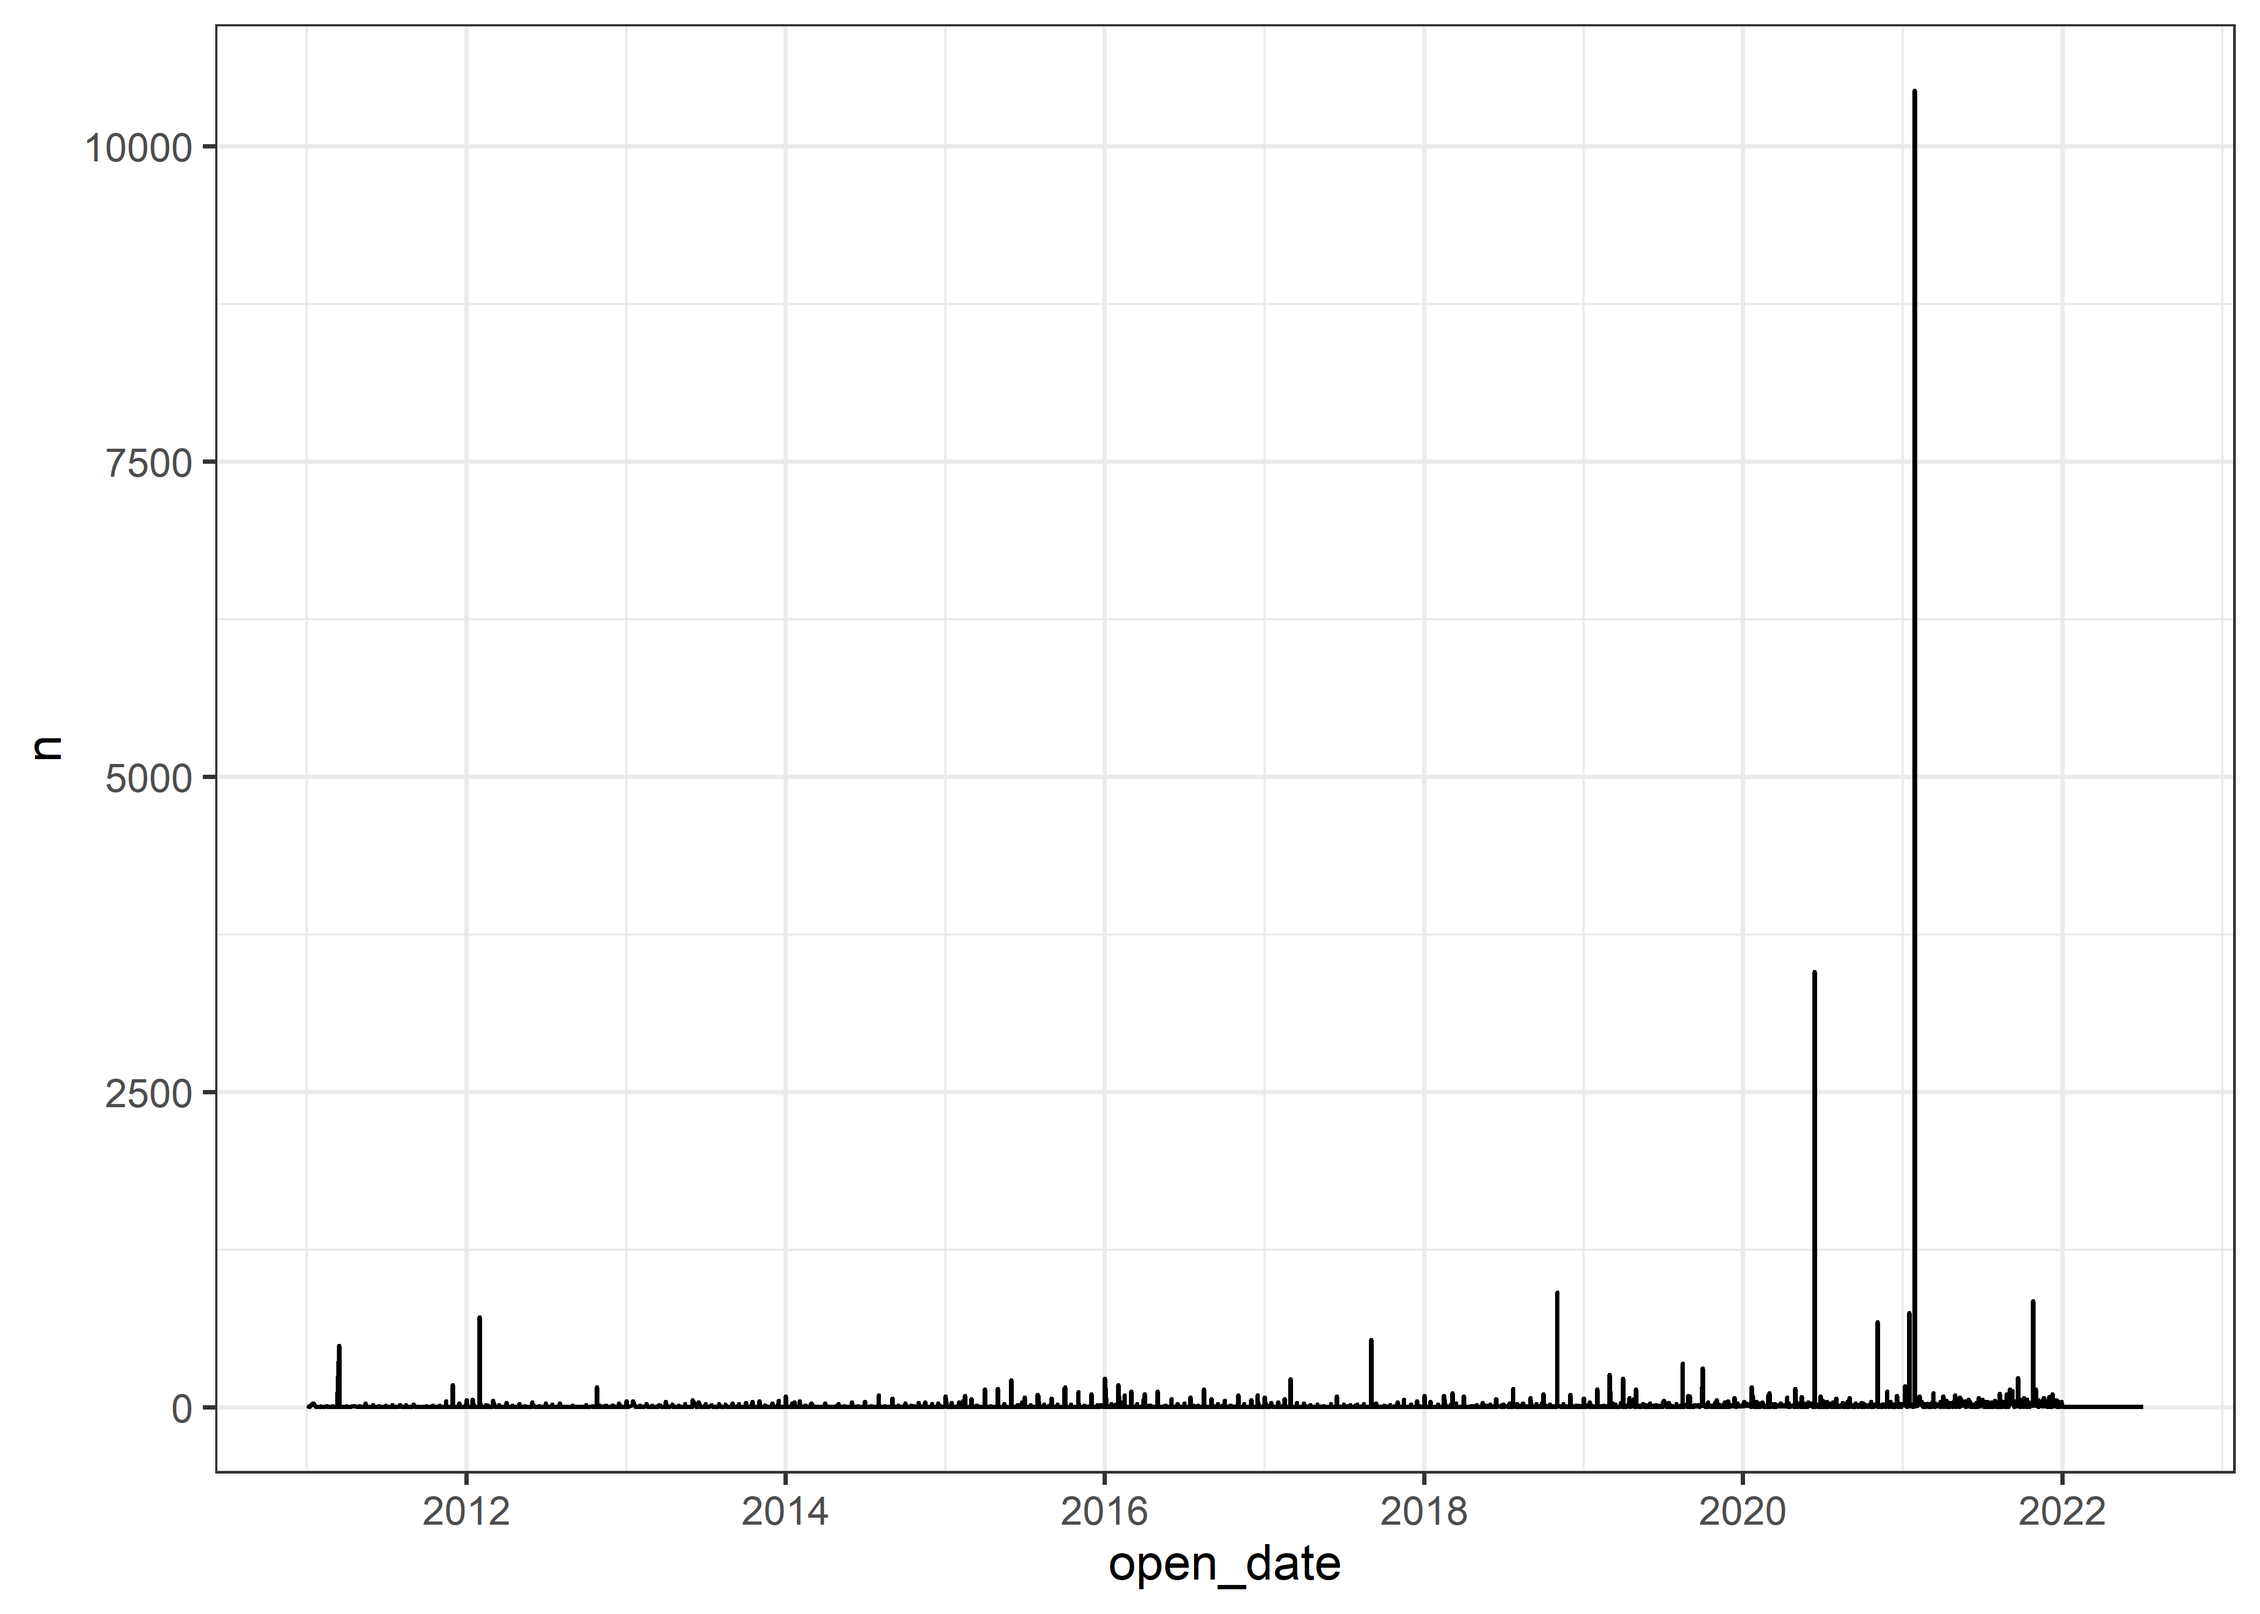
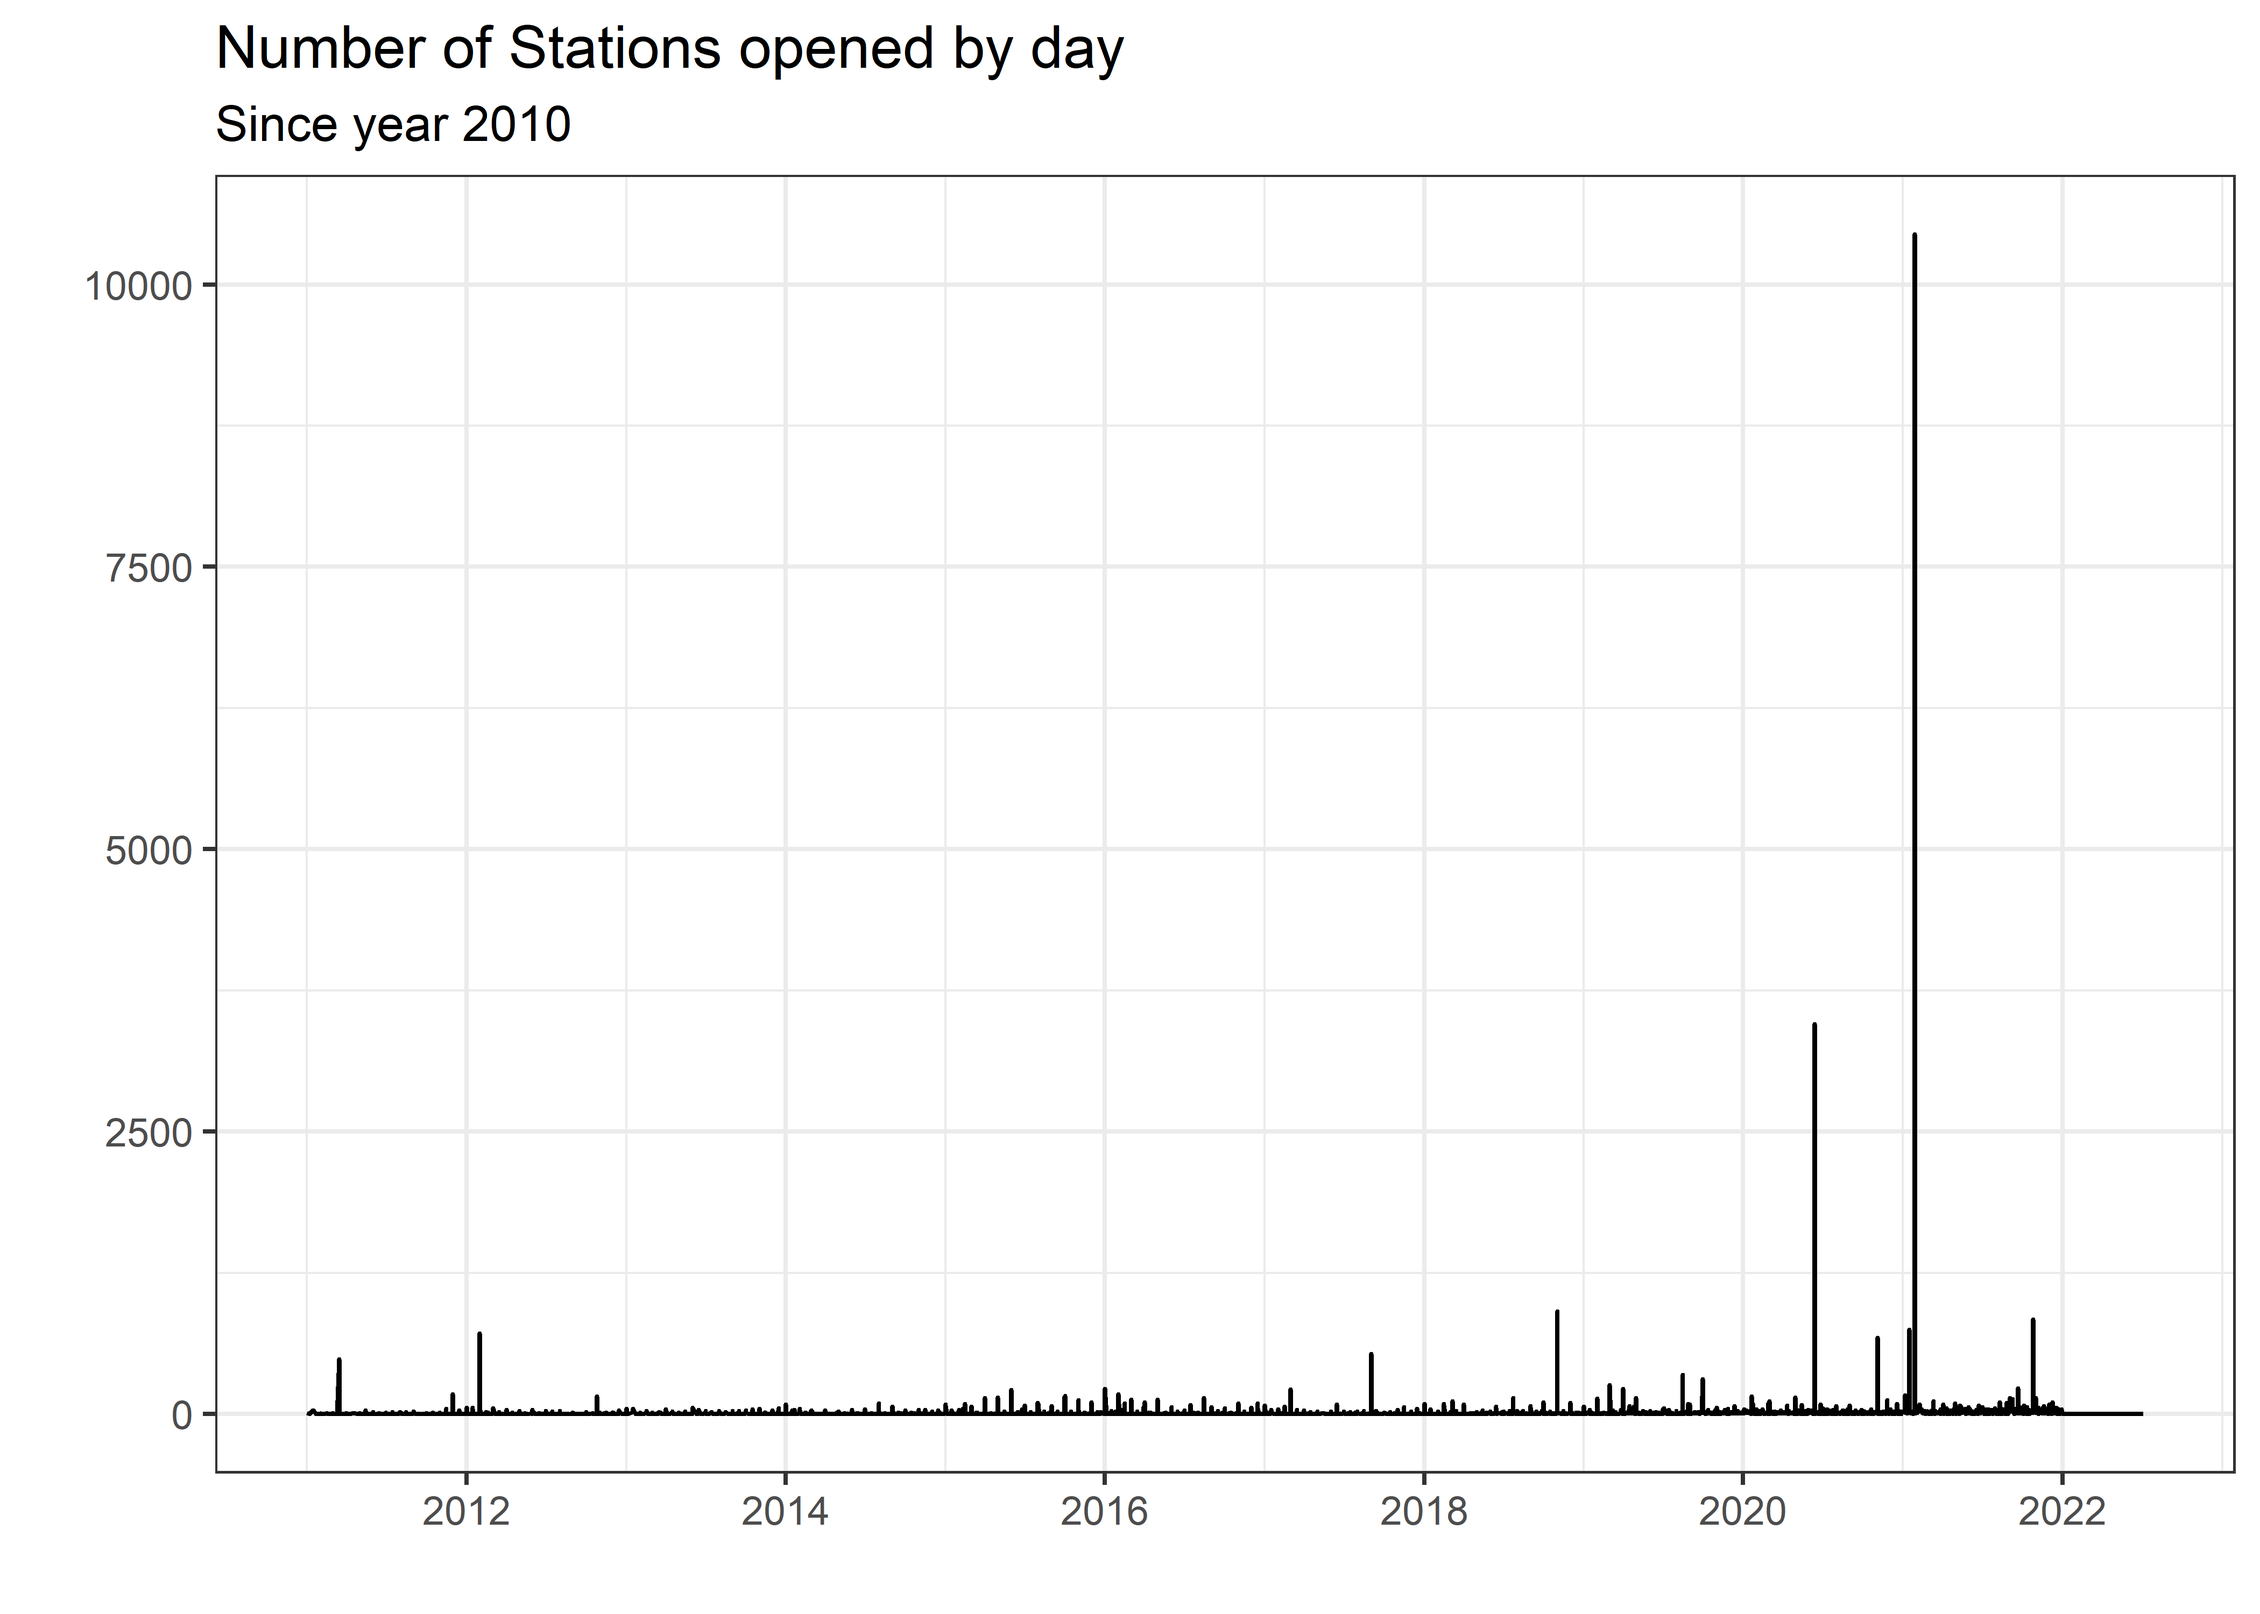
Patchwork Plot

diff --git a/Stations.md b/Stations.md
@@ -4,12 +4,46 @@ Matthew
 2/28/2022
 
 ``` r
+stations <- read_csv('https://raw.githubusercontent.com/rfordatascience/tidytuesday/master/data/2022/2022-03-01/stations.csv')
+```
+
+    ## 
+    ## -- Column specification --------------------------------------------------------
+    ## cols(
+    ##   .default = col_character(),
+    ##   X = col_double(),
+    ##   Y = col_double(),
+    ##   OBJECTID = col_double(),
+    ##   PLUS4 = col_logical(),
+    ##   BD_BLENDS = col_logical(),
+    ##   EV_LEVEL1_EVSE_NUM = col_double(),
+    ##   EV_LEVEL2_EVSE_NUM = col_double(),
+    ##   EV_DC_FAST_COUNT = col_double(),
+    ##   LATITUDE = col_double(),
+    ##   LONGITUDE = col_double(),
+    ##   ID = col_double(),
+    ##   FEDERAL_AGENCY_ID = col_double(),
+    ##   HYDROGEN_STATUS_LINK = col_logical(),
+    ##   LPG_PRIMARY = col_logical(),
+    ##   E85_BLENDER_PUMP = col_logical(),
+    ##   INTERSECTION_DIRECTIONS_FRENCH = col_logical(),
+    ##   ACCESS_DAYS_TIME_FRENCH = col_logical(),
+    ##   BD_BLENDS_FRENCH = col_logical(),
+    ##   HYDROGEN_IS_RETAIL = col_logical(),
+    ##   CNG_DISPENSER_NUM = col_double()
+    ##   # ... with 8 more columns
+    ## )
+    ## i Use `spec()` for the full column specifications.
+
+``` r
 stations <- stations %>%
   select(where(~any(!is.na(.x)))) %>%
   rename_with(tolower) %>%
   select(-objectid) %>%
   mutate(open_date = as.Date(open_date))
 ```
+
+# EDA
 
 ``` r
 stations %>%
@@ -35,13 +69,15 @@ stations %>%
 
 ![](Stations_files/figure-gfm/unnamed-chunk-2-2.png)<!-- -->
 
-### Observing date 2021-01-07
+## Observing date 2021-01-07
 
 ``` r
-stations %>%
-  count(open_date, sort = TRUE) %>%
+(p1 <- stations %>%
   filter(year(open_date) > 2010) %>%
-  ggplot(aes(open_date, n)) + geom_line()
+  count(open_date, sort = TRUE) %>%
+  ggplot(aes(open_date, n)) + geom_line() + 
+  labs(title = "Number of Stations opened by day", x = "", y = "",
+       subtitle = "Since year 2010"))
 ```
 
 ![](Stations_files/figure-gfm/unnamed-chunk-3-1.png)<!-- -->
@@ -49,22 +85,38 @@ stations %>%
 ``` r
 stations %>%
   filter(open_date == "2021-01-27") %>%
+  count(fuel_type_code)
+```
+
+    ## # A tibble: 1 x 2
+    ##   fuel_type_code     n
+    ##   <chr>          <int>
+    ## 1 ELEC           10446
+
+``` r
+x <- stations %>%
+  filter(open_date == "2021-01-27") %>%
   count(state, sort = TRUE) %>%
-  ggplot(aes(n, y = fct_reorder(state, n))) +
-  geom_col() + labs(y = "State", x = "Count", fill = "Fuel")
+  head(20) %>%
+  select(state)
+
+(p2 <- stations %>%
+  filter(!is.na(open_date)) %>%
+  select(open_date, state) %>%
+  mutate(key = ifelse(open_date == "2021-01-27", "Yes", "No")) %>%
+  group_by(key) %>%
+  count(state) %>%
+  filter(state %in% x$state) %>%
+  ggplot(aes(n, fct_reorder(state, n), fill = fct_rev(as.factor(key)))) + geom_col() +
+  labs(fill = "2021-01-27", y = "", x = "Count", title = "Stations Opened", subtitle = "Top 20 States") + 
+  scale_fill_manual(values = c("yellow","blue")))
 ```
 
 ![](Stations_files/figure-gfm/unnamed-chunk-3-2.png)<!-- -->
 
 ``` r
-stations %>%
-  filter(!is.na(open_date)) %>%
-  select(open_date, state) %>%
-  mutate(key = ifelse(open_date == "2021-01-27", "Yes", "No")) %>%
-  group_by(state,key) %>%
-  count(state) %>%
-  ggplot(aes(n, fct_reorder(state, n), fill = fct_rev(as.factor(key)))) + geom_col() +
-  labs(fill = "2021-01-27", y = "") + scale_fill_hue(direction = -1)
+p1 + p2 + plot_annotation(title = "Sharp increase in Electric Fuel at the start of 2021",
+                          subtitle = "All stations opened in 2021-01-27 used Electric Fuel")
 ```
 
 ![](Stations_files/figure-gfm/unnamed-chunk-3-3.png)<!-- -->
